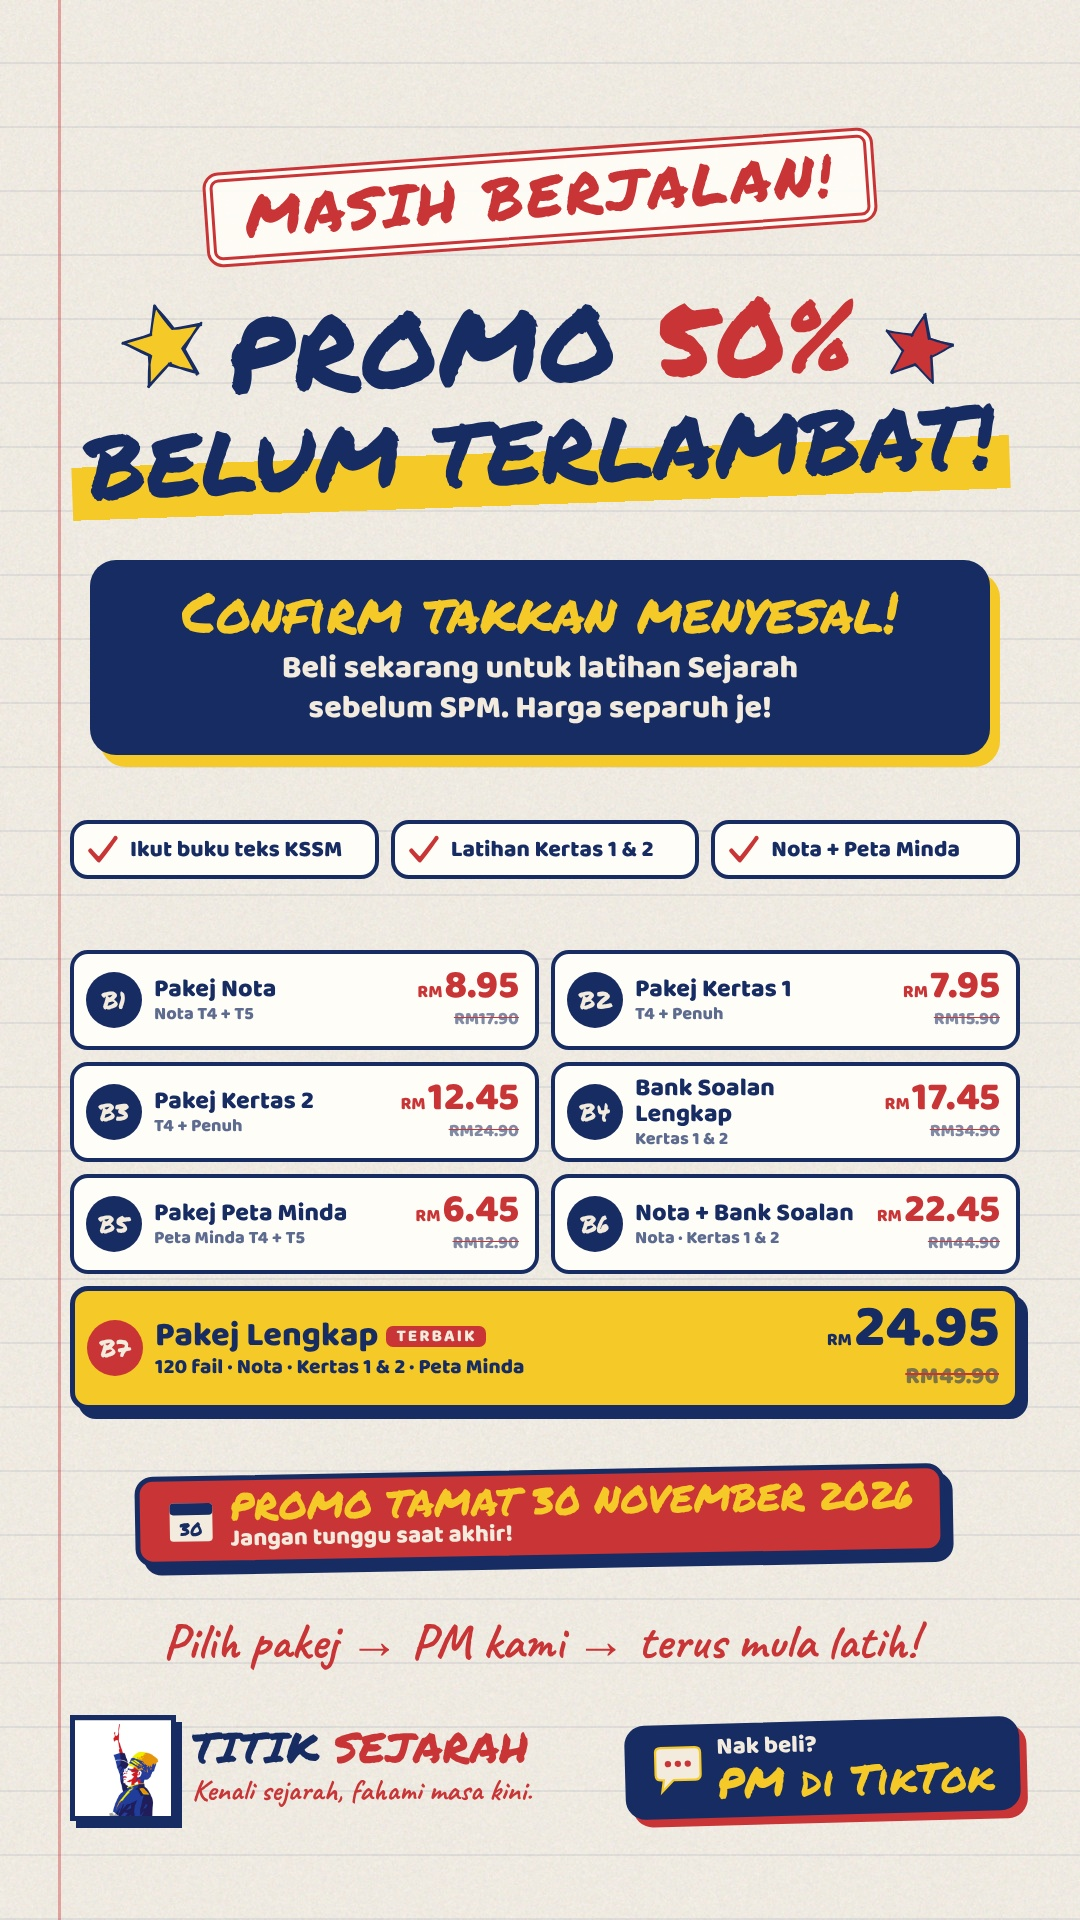
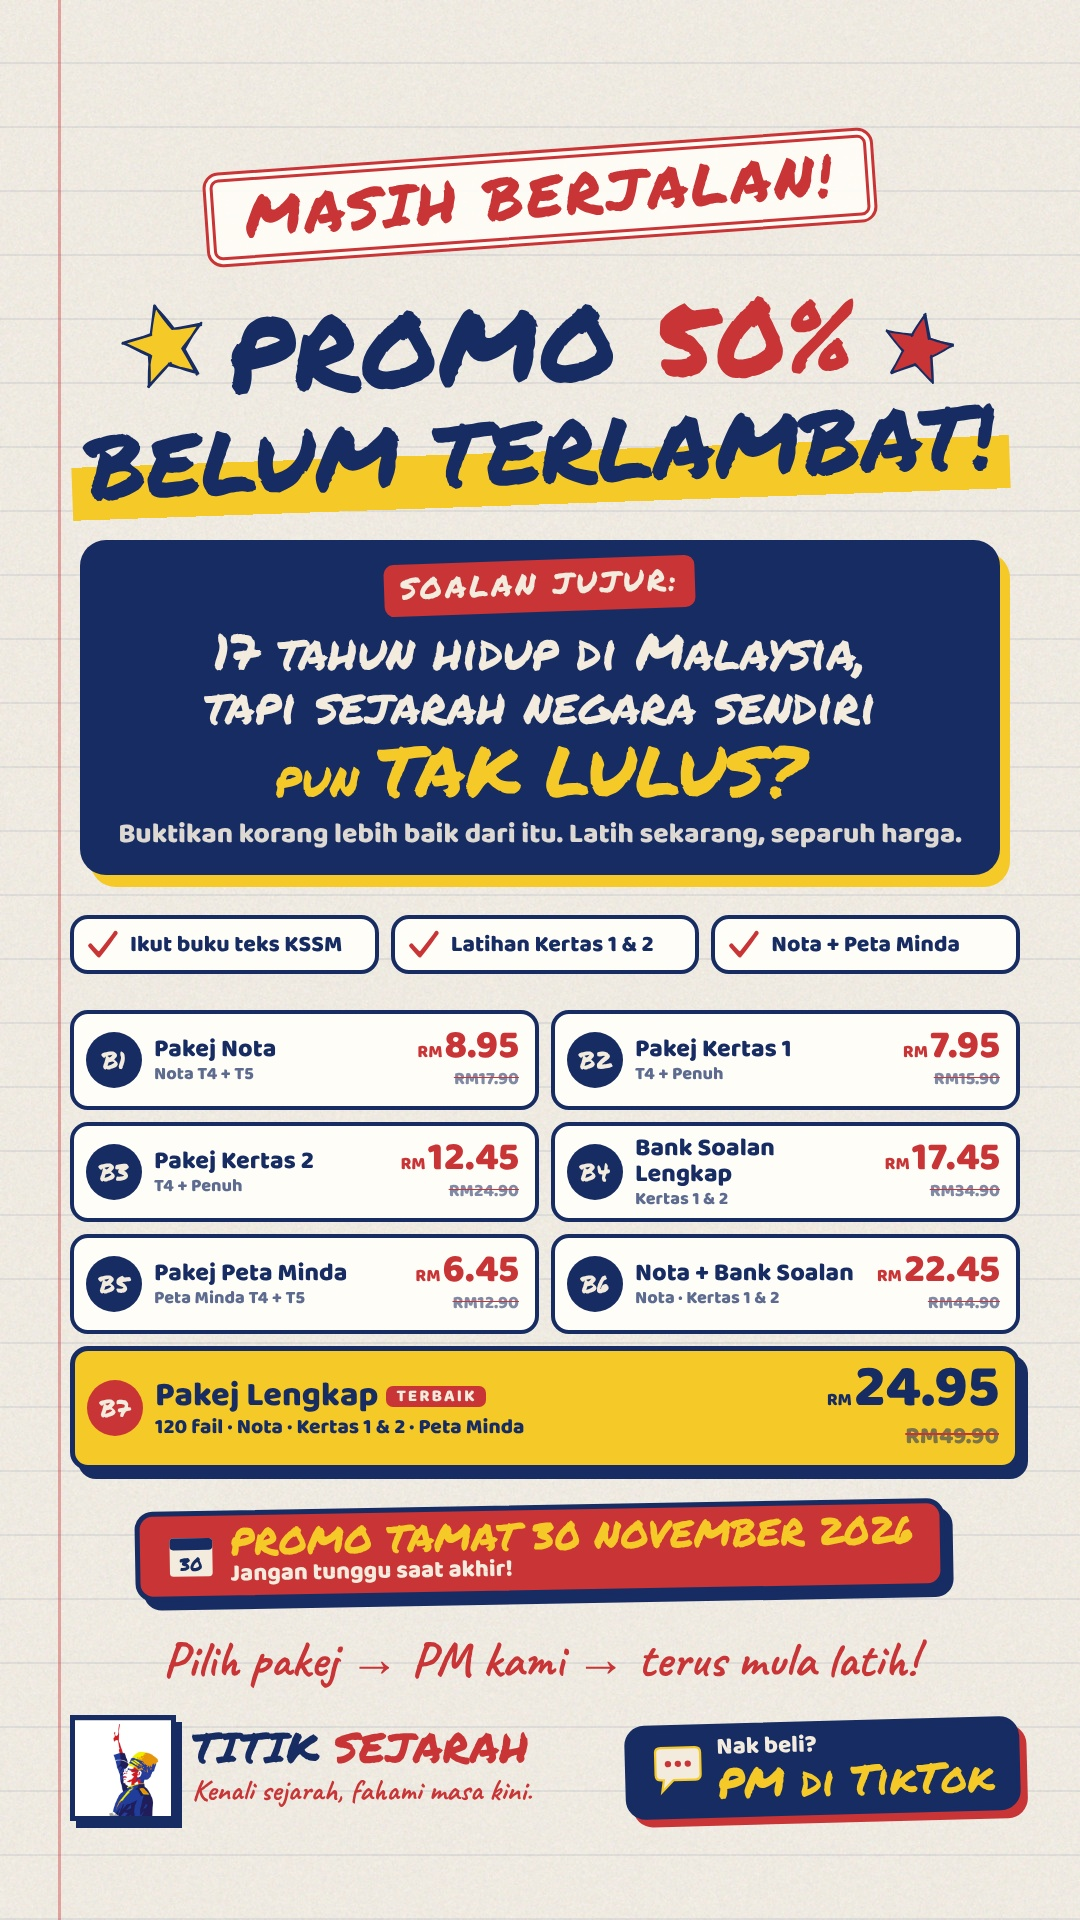
Promo masih berjalan: replace hook with provocative '17 tahun... tak lulus?' line
Claude-Session: https://claude.ai/code/session_01J6XTmEEfaGyASqYC8kTvFV

Changed region(s): [[0.0611, 0.2812, 0.9778, 0.875]]

diff --git a/engine/poster_promolagi.html b/engine/poster_promolagi.html
@@ -19,13 +19,18 @@ html,body{margin:0;width:1080px;height:1920px;overflow:hidden}
 .stamp{display:inline-block;font-family:'Marker';color:#C93436;border:10px double #C93436;border-radius:16px;padding:4px 30px 10px;background:rgba(255,253,247,.9);font-size:58px;letter-spacing:3px;line-height:1.05}
 .h1{font-family:'Marker';font-size:104px;line-height:1;white-space:nowrap}
 .hl{background:linear-gradient(to bottom,transparent 52%,#F5C928 52%,#F5C928 94%,transparent 94%);padding:0 14px}
-.quote{left:90px;width:900px;top:560px;box-sizing:border-box;background:#172C63;color:#F3EBDD;border-radius:26px;box-shadow:10px 12px 0 #F5C928;padding:22px 36px 26px;text-align:center}
+.quote{left:80px;width:920px;top:540px;box-sizing:border-box;background:#172C63;color:#F3EBDD;border-radius:26px;box-shadow:10px 12px 0 #F5C928;padding:20px 30px 24px;text-align:center}
+.quote .k{display:inline-block;font-family:'Marker';font-size:30px;letter-spacing:3px;color:#F3EBDD;background:#C93436;border-radius:10px;padding:2px 16px 6px;transform:rotate(-2deg)}
+.quote .q1{font-family:'Marker';font-size:50px;line-height:1.08;color:#F3EBDD;margin-top:12px;white-space:nowrap}
+.quote .bang{font-size:70px;color:#F5C928}
+.quote .q2{font-family:'Marker';font-size:50px;line-height:1.08;color:#F5C928;white-space:nowrap}
+.quote .s{font-weight:700;font-size:28px;line-height:1.2;margin-top:10px;color:#F3EBDD;opacity:.9}
 .quote .a{font-family:'Marker';font-size:56px;line-height:1.05;color:#F5C928}
 .quote .b{font-weight:700;font-size:32px;line-height:1.25;margin-top:8px}
-.why{left:70px;width:950px;top:820px;display:flex;gap:12px}
+.why{left:70px;width:950px;top:915px;display:flex;gap:12px}
 .why .w{flex:1;background:#FFFDF7;border:4px solid #172C63;border-radius:18px;padding:10px 12px;display:flex;align-items:center;gap:10px;font-weight:800;font-size:23px;line-height:1.1}
 .why .w .ck{width:34px;flex:none}
-.grid{left:70px;top:950px;width:950px;display:grid;grid-template-columns:1fr 1fr;gap:12px}
+.grid{left:70px;top:1010px;width:950px;display:grid;grid-template-columns:1fr 1fr;gap:12px}
 .p{display:flex;align-items:center;gap:12px;background:#FFFDF7;border:4px solid #172C63;border-radius:18px;height:100px;box-sizing:border-box;padding:0 16px 0 12px}
 .p .id{width:56px;height:56px;border-radius:50%;background:#172C63;color:#F3EBDD;font-family:'Marker';font-size:24px;display:flex;align-items:center;justify-content:center;flex:none}
 .p .nm{flex:1;font-weight:800;font-size:25px;line-height:1.05}
@@ -41,7 +46,7 @@ html,body{margin:0;width:1080px;height:1920px;overflow:hidden}
 .best .now{font-size:60px;color:#172C63}
 .best .was{font-size:24px}
 .tg{display:inline-block;background:#C93436;color:#F3EBDD;font-size:17px;letter-spacing:2px;padding:2px 10px;border-radius:7px;margin-left:8px;vertical-align:4px}
-.end{left:0;width:1080px;top:1470px;display:flex;justify-content:center}
+.end{left:0;width:1080px;top:1505px;display:flex;justify-content:center}
 .end .box{display:flex;align-items:center;gap:14px;background:#C93436;color:#F3EBDD;border:5px solid #172C63;border-radius:18px;box-shadow:8px 9px 0 #172C63;padding:6px 26px 8px;transform:rotate(-1deg)}
 .end .box svg{width:50px;display:block}
 .end .l1{font-family:'Marker';font-size:38px;color:#F5C928;line-height:1.05;white-space:nowrap}
@@ -76,7 +81,7 @@ add(D.star(C.gold), 'left:120px;top:300px;width:90px;transform:rotate(-14deg)');
 add(D.star(C.red), 'left:880px;top:310px;width:76px;transform:rotate(12deg)');
 
 // 2) No-regret message
-add('<div class="a">Confirm takkan menyesal!</div><div class="b">Beli sekarang untuk latihan Sejarah<br>sebelum SPM. Harga separuh je!</div>', '', 'abs quote');
+add('<span class="k">SOALAN JUJUR:</span><div class="q1">17 tahun hidup di Malaysia,</div><div class="q1" style="margin-top:0">tapi sejarah negara sendiri</div><div class="q2">pun <span class="bang">TAK LULUS?</span></div><div class="s">Buktikan korang lebih baik dari itu. Latih sekarang, separuh harga.</div>', '', 'abs quote');
 
 // 3) Why
 const ck = D.check(C.red);
@@ -93,7 +98,7 @@ add(P.map(([id, nm, s, now, was]) => `<div class="p"><div class="id">${id}</div>
 const cal = svg(110, 110, `<rect x="8" y="18" width="94" height="84" rx="8" fill="#F3EBDD"/><rect x="8" y="18" width="94" height="26" rx="8" fill="${C.navy}"/><text x="55" y="90" font-family="Marker" font-size="40" fill="${C.navy}" text-anchor="middle">30</text>`);
 add(`<div class="box">${cal}<div><div class="l1">PROMO TAMAT 30 NOVEMBER 2026</div><div class="l2">Jangan tunggu saat akhir!</div></div></div>`, '', 'abs end');
 
-add('Pilih pakej &rarr; PM kami &rarr; terus mula latih!', 'top:1610px;font-family:Caveat;font-weight:700;font-size:50px;color:#C93436', 'abs ctr');
+add('Pilih pakej &rarr; PM kami &rarr; terus mula latih!', 'top:1628px;font-family:Caveat;font-weight:700;font-size:50px;color:#C93436', 'abs ctr');
 
 // 6) Brand + CTA
 add(`<div class="brand"><div class="dp"></div><div><div class="t">TITIK <span class="red">SEJARAH</span></div><div class="tgl">Kenali sejarah, fahami masa kini.</div></div></div>
